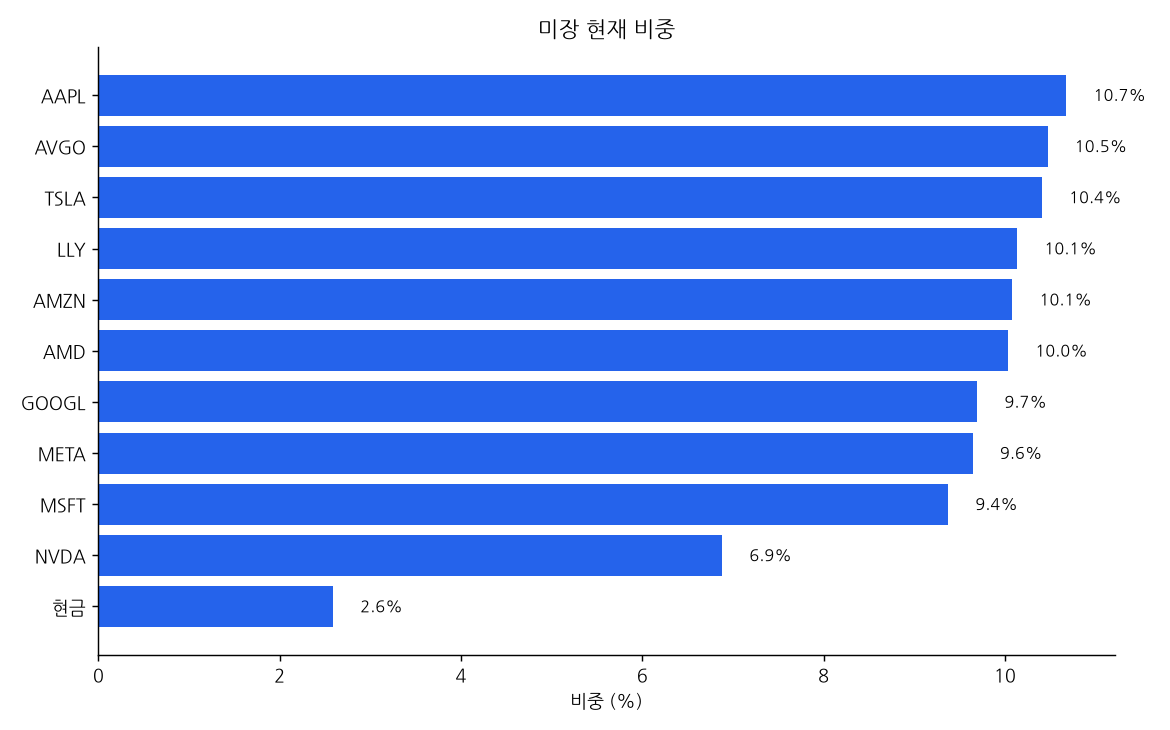
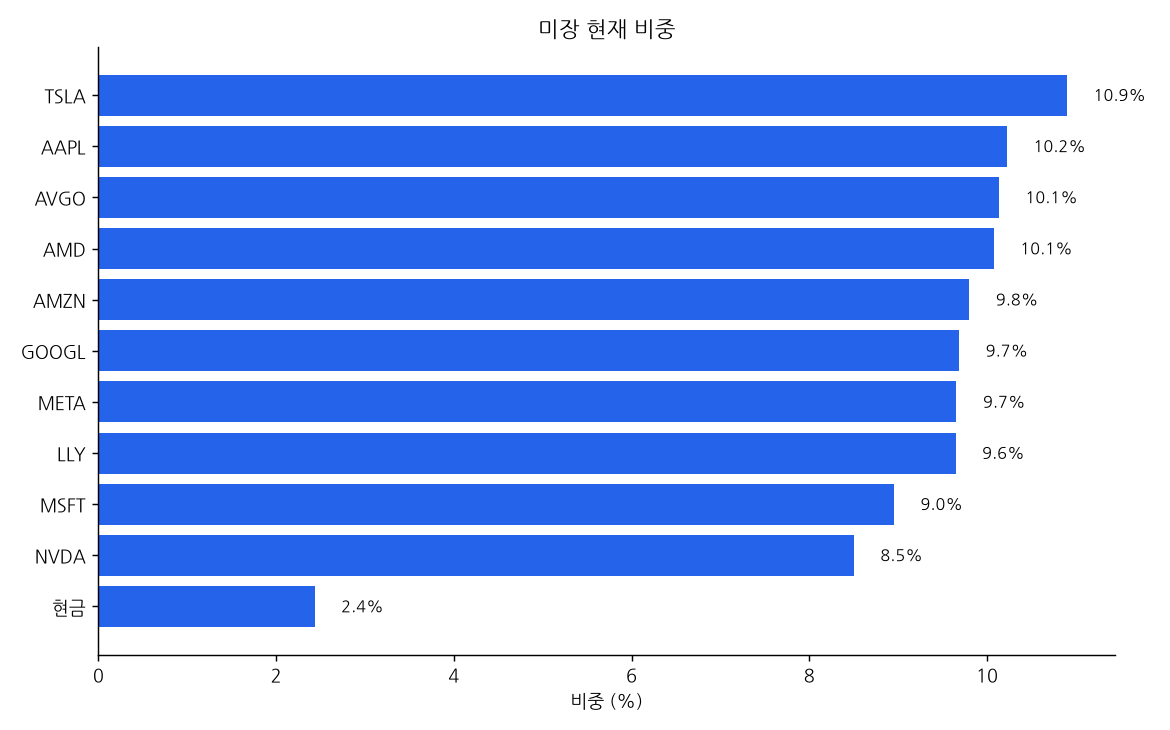
dashboard 2026-11-24 07:30

diff --git a/README.md b/README.md
@@ -1,10 +1,10 @@
 # 📈 내 자동매매 포트폴리오
 
-_마지막 갱신: 2026-11-23 16:00 (KST) · 라즈베리파이 자동 업데이트_
+_마지막 갱신: 2026-11-24 07:30 (KST) · 라즈베리파이 자동 업데이트_
 
 | 트랙 | 시작일 | 누적 수익률 | 비교 지수 | 초과 | 최근 1개월 | 국면 |
 |---|---|---|---|---|---|---|
-| 미장 | 2026-11-05 | **-6.47%** | -5.89% | -0.57% | - | BEAR |
+| 미장 | 2026-11-05 | **-0.43%** | -1.46% | +1.03% | - | BEAR |
 | 국장 | 2026-11-06 | **-2.91%** | -6.63% | +3.72% | - | BEAR |
 
 ## 미장
@@ -13,17 +13,17 @@ _마지막 갱신: 2026-11-23 16:00 (KST) · 라즈베리파이 자동 업데이
 
 | 종목 | 비중 |
 |---|---|
-| AAPL | 10.7% |
-| AVGO | 10.5% |
-| TSLA | 10.4% |
-| LLY | 10.1% |
-| AMZN | 10.1% |
-| AMD | 10.0% |
+| TSLA | 10.9% |
+| AAPL | 10.2% |
+| AVGO | 10.1% |
+| AMD | 10.1% |
+| AMZN | 9.8% |
 | GOOGL | 9.7% |
-| META | 9.6% |
-| MSFT | 9.4% |
-| NVDA | 6.9% |
-| 현금 | 2.6% |
+| META | 9.7% |
+| LLY | 9.6% |
+| MSFT | 9.0% |
+| NVDA | 8.5% |
+| 현금 | 2.4% |
 
 ![미장 비중](charts/us_weights.png)
 
